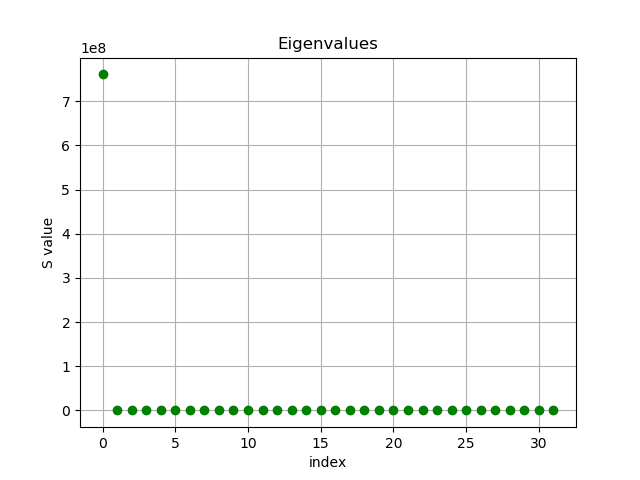
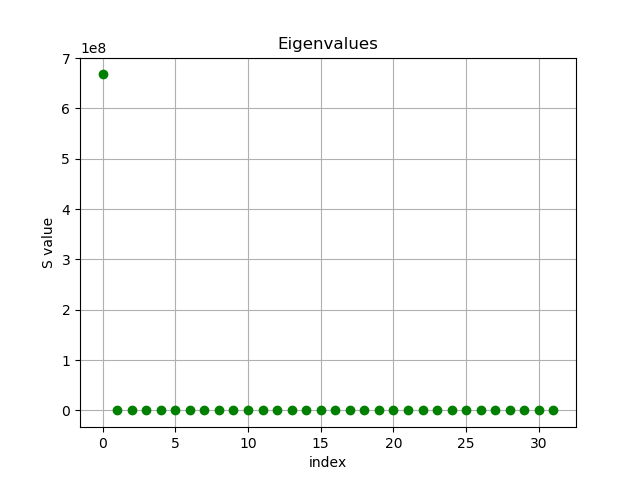
~50% accuracy

diff --git a/model/least_squares.py b/model/least_squares.py
@@ -10,10 +10,11 @@ def cross_validate (X,y):
     a,b = X.shape
 
     # cross validate model
-    total_correct = 0
+    total_ac = 0
     sets = 10
     best = 0
     weights = []
+    X_final = []
 
     for j in range(sets):
         # get dataset splits
@@ -22,17 +23,24 @@ def cross_validate (X,y):
         w_hat = calc(X_train, y_train)
         y_hat = X_test @ w_hat
         # get correct predition percentage
-        correct = check(y_hat,y_test)
+        accuracy = check(y_hat,y_test)
+
         # save best results
-        if (correct > best):
-            best = correct
+        if (accuracy > best):
+            best = accuracy
             weights = w_hat
+            X_final = X_train
         # sum for analysis
-        total_correct = total_correct + correct
+        total_ac = total_ac + accuracy
 
     # display kept Eigenvalues/vectors and weights
+    disp.eigens(X_final)
 
-    avg_accuracy = total_correct/sets;
+    # avgerage accuracy
+    print ("Average Accuracy")
+    print (total_ac/sets)
+    print ("Best Accuracy")
+    print (best)
     # return final weights and average accuracy
     return weights
 
@@ -42,14 +50,27 @@ def calc (X,y):
     # calculate eigenvectors and eignevalues
     [U,S,V] = np.linalg.svd(X, full_matrices=False)
     # least squares approximation using eigenvectors and eignevalues
-    w_hat = V @ np.linalg.inv(np.diag(S)) @ U.T @ y
+    w_hat = V.T @ np.linalg.inv(np.diag(S)) @ U.T @ y
 
     return w_hat
 
 
 # count correct predictions
 def check(y_hat, y):
+    # round values
+    y_hat[(y_hat < -2.5)] = -3
+    y_hat[(y_hat > -2.5) & (y_hat < -1.5)] = -2
+    y_hat[(y_hat > -1.5) & (y_hat < -0.5)] = -1
+    y_hat[(y_hat > -0.5) & (y_hat < 0.5)] = 0
+    y_hat[(y_hat > 0.5) & (y_hat < 1.5)] = 1
+    y_hat[(y_hat > 1.5) & (y_hat < 2.5)] = 2
+    y_hat[(y_hat > 2.5)] = 3
+
+    #print (y_hat)
+    #print (y)
+    #print ("-")
+
     z = y_hat - y
     incorrect = np.count_nonzero(z)
     correct = len(y) - incorrect
-    return correct
+    return correct / len(y)

diff --git a/model/model.py b/model/model.py
@@ -21,7 +21,6 @@ def model (argv):
     np.savetxt(weights_file, w_hat, delimiter=',')
 
     # Print for analysis
-    disp.eigens(X)
     disp.stats(w_hat, y)
 
     # success
